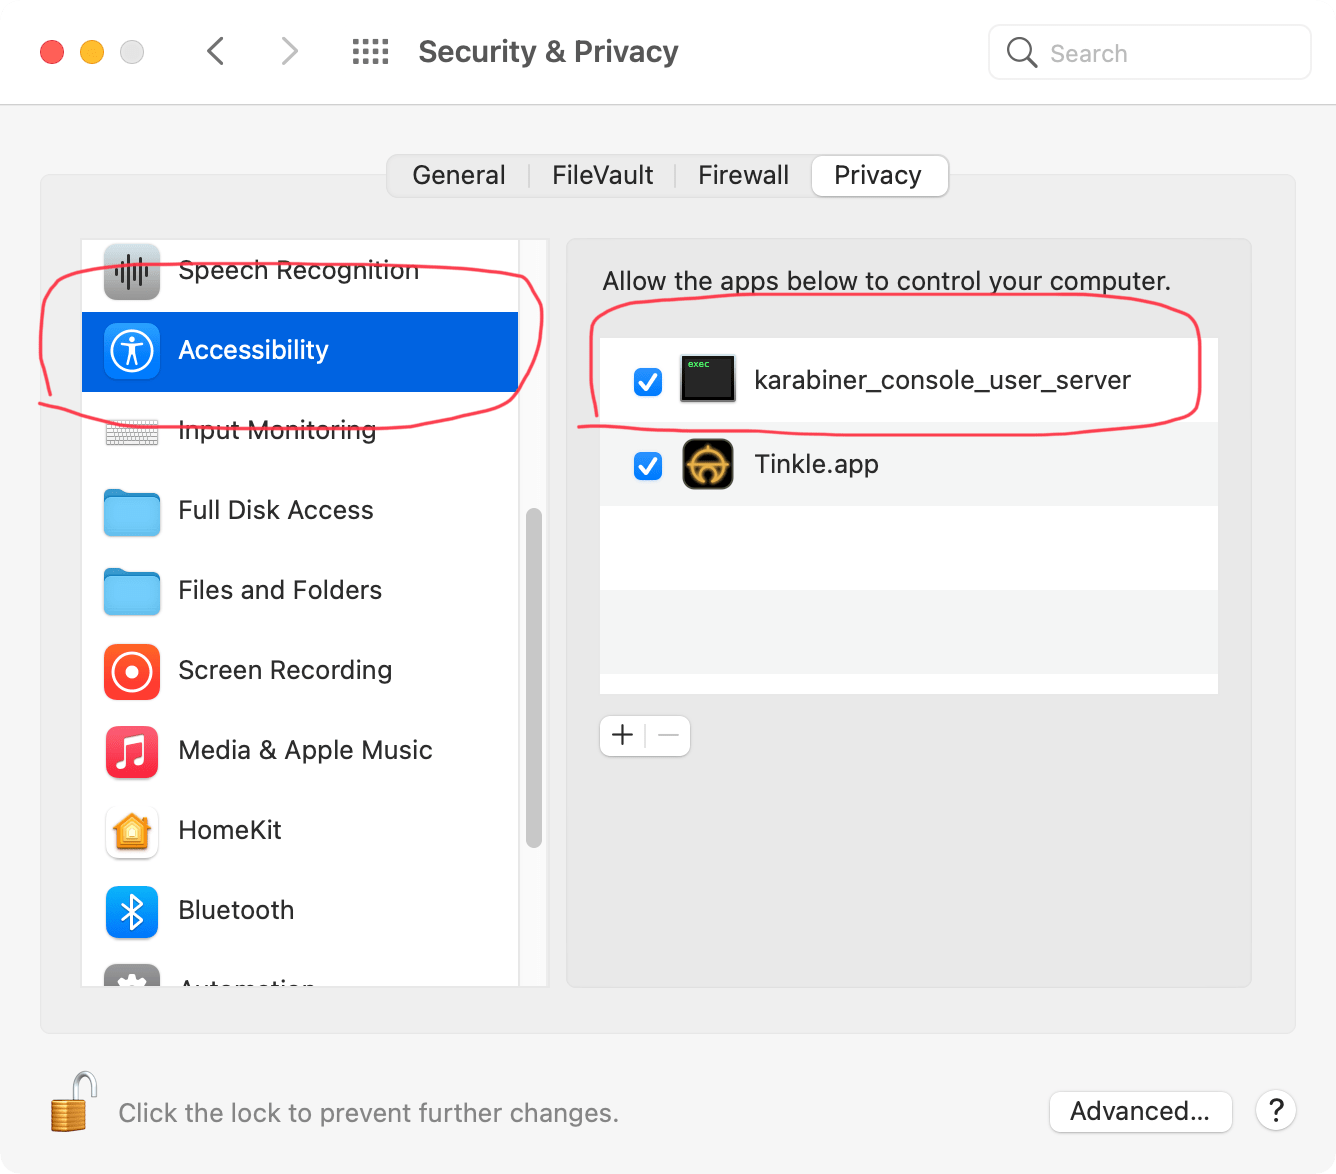
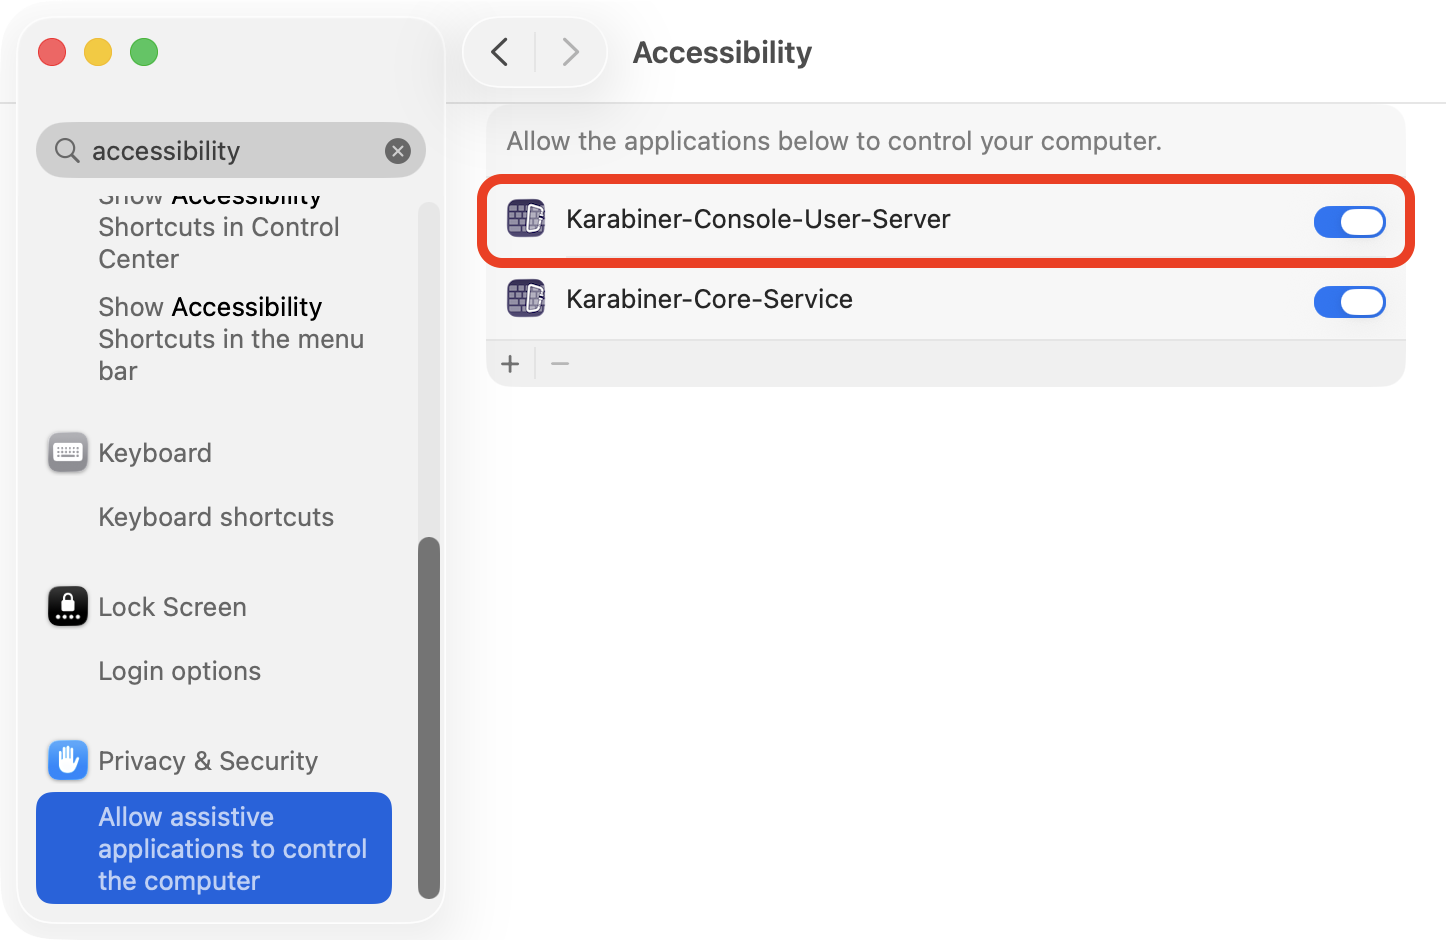
karabiner_console_user_server -> Karabiner-Console-User-Server

diff --git a/sites/karabiner-elements/content/en/docs/help/advanced-topics/security/index.md b/sites/karabiner-elements/content/en/docs/help/advanced-topics/security/index.md
@@ -31,7 +31,7 @@ Running with DriverKit privileges:
 
 Running with logged-in user privileges:
 
-- **karabiner_console_user_server**
+- **Karabiner-Console-User-Server**
     - It instructs the Karabiner-Core-Service daemon to start grabbing devices.
     - It also executes shell commands and sends user commands triggered by the Karabiner-Core-Service daemon.
 - **Karabiner-Core-Service** agent
@@ -41,7 +41,7 @@ Running with logged-in user privileges:
       Therefore, the Karabiner-Core-Service agent monitors changes to the focused application and UI element,
       and notifies the Karabiner-Core-Service daemon.
     - **Note:** Since the Karabiner-Core-Service agent is granted powerful permissions such as Accessibility, its role is intentionally limited.
-      Responsibilities such as executing user shell commands are handled by `karabiner_console_user_server` to keep privileges clearly separated.
+      Responsibilities such as executing user shell commands are handled by `Karabiner-Console-User-Server` to keep privileges clearly separated.
 
 ## Fully open source project
 

diff --git a/sites/karabiner-elements/content/en/docs/help/advanced-topics/set-environment-variables/index.md b/sites/karabiner-elements/content/en/docs/help/advanced-topics/set-environment-variables/index.md
@@ -36,11 +36,11 @@ LC_ALL=C
 
 {{% /alert %}}
 
-After modifying the `karabiner_environment` file, you need to restart the karabiner_console_user_server process to apply the changes.
+After modifying the `karabiner_environment` file, you need to restart the Karabiner-Console-User-Server process to apply the changes.
 You can do it by running the following commands in Terminal.
 
 ```shell
-launchctl kickstart -k gui/$(id -u)/org.pqrs.service.agent.karabiner_console_user_server
+launchctl kickstart -k gui/$(id -u)/org.pqrs.service.agent.Karabiner-Console-User-Server
 ```
 
 {{% alert title="Caution" color="danger" %}}

diff --git a/sites/karabiner-elements/content/en/docs/privacy/index.md b/sites/karabiner-elements/content/en/docs/privacy/index.md
@@ -98,7 +98,7 @@ Accessibility permission is handled by the `Karabiner-Core-Service` agent runnin
 This agent monitors changes to the focused application and UI element, and notifies the `Karabiner-Core-Service` daemon.
 
 The role of this agent is intentionally limited.
-Responsibilities such as executing user shell commands are handled by `karabiner_console_user_server` to keep privileges clearly separated.
+Responsibilities such as executing user shell commands are handled by `Karabiner-Console-User-Server` to keep privileges clearly separated.
 
 {{% /alert %}}
 

diff --git a/sites/karabiner-elements/content/en/docs/json/complex-modifications-manipulator-definition/to/software_function/cg_event_double_click/index.md b/sites/karabiner-elements/content/en/docs/json/complex-modifications-manipulator-definition/to/software_function/cg_event_double_click/index.md
@@ -105,7 +105,7 @@ Only use it if you absolutely must trigger double-click events without sending r
 {{% alert title="Accessibility" color="primary" %}}
 
 `cg_event_double_click` uses the accessibility features.
-You have to allow `karabiner_console_user_server` in Privacy & Security System Settings.
+You have to allow `Karabiner-Console-User-Server` in Privacy & Security System Settings.
 
 {{< local-image src="images/karabiner_console_user_server_accessibility@2x.png" >}}
 

diff --git a/sites/karabiner-elements/content/en/docs/manual/operation/restart/index.md b/sites/karabiner-elements/content/en/docs/manual/operation/restart/index.md
@@ -14,7 +14,7 @@ You can restart Karabiner-Elements from the menu bar or Settings.
 If you want to restart Karabiner-Elements from the command line, execute the following command:
 
 ```shell
-launchctl kickstart -k gui/$(id -u)/org.pqrs.service.agent.karabiner_console_user_server
+launchctl kickstart -k gui/$(id -u)/org.pqrs.service.agent.Karabiner-Console-User-Server
 ```
 
 {{% /alert %}}
